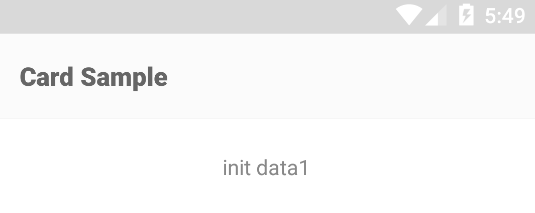
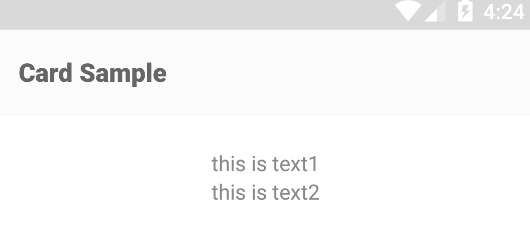
version 0.2.0

Changed region(s): [[0.0, 0.0, 1.0, 0.169], [0.0302, 0.2535, 0.3321, 0.4225], [0.3925, 0.6761, 0.6038, 0.8732]]

diff --git a/kratos/src/main/java/kratos/internal/KString.kt b/kratos/src/main/java/kratos/internal/KString.kt
@@ -21,6 +21,7 @@ class KString() {
     var views = emptySet<View>()
     var fn: ((view: View, new: String) -> Unit)? = null
     var update: Update? = null
+    var initData: String? = null
 
     public constructor(fn: (view: View, new: String) -> Unit) : this() {
         this.fn = fn
@@ -30,9 +31,9 @@ class KString() {
         this.update = update
     }
 
-    public var data: String by Delegates.observable("") {
+    private var data: String by Delegates.observable("") {
         d, old, new ->
-        if (old != new) {
+        if ((old != new)) {
             for (view in views) {
                 Log.d("KString", "VIEW UPDATE!: ${view.resources.getResourceName(view.id)} FROM $old TO $new")
                 if (fn != null)
@@ -63,6 +64,14 @@ class KString() {
                 })
             }
         }
+    }
+
+    fun get(): String {
+        return data
+    }
+
+    fun set(new: String) {
+        data = new
     }
 }
 

diff --git a/kratos/src/main/java/kratos/card/RenderExt.kt b/kratos/src/main/java/kratos/card/RenderExt.kt
@@ -11,6 +11,7 @@ import android.view.ViewGroup
 import android.widget.EditText
 import android.widget.RelativeLayout
 import android.widget.TextView
+import kratos.Kratos
 import kratos.R
 import kratos.card.entity.KData
 import kratos.card.render.*
@@ -149,7 +150,10 @@ fun Context.toTemplate(template: String): Template? {
                 var jsonString = jsonObject.toString()
                 jsonString = onCardRenderListener.onRender(jsonString)
                 var clazz = Class.forName(jsonObject.get("type").toString())
-                t.body.add(GsonUtils.getGson(this, clazz).fromJson<KCard<KData>>(jsonString, clazz))
+                val card = GsonUtils.getGson(this, clazz).fromJson<KCard<KData>>(jsonString, clazz)
+                t.body.add(card)
+                Kratos.bind(card)
+                card.onRender()
             }
         }
         if (`object`.has("footer")) {

diff --git a/kratos/src/main/java/kratos/card/KCard.kt b/kratos/src/main/java/kratos/card/KCard.kt
@@ -56,4 +56,6 @@ open class KCard<T : KData>(@Skip val context: Context) {
     protected fun onLink(position: Int) {
         EventBus.getDefault().post(KOnClickEvent(id, data, url, position))
     }
+
+    public open fun onRender() {}
 }

diff --git a/kratos-compiler/src/main/java/kratos/compiler/KratosProcessor.java b/kratos-compiler/src/main/java/kratos/compiler/KratosProcessor.java
@@ -31,8 +31,10 @@ import javax.lang.model.type.TypeVariable;
 import javax.lang.model.util.Elements;
 import javax.lang.model.util.Types;
 
+import kratos.Bind;
 import kratos.BindLayout;
 import kratos.BindText;
+import kratos.Binds;
 import kratos.LBindLayout;
 import kratos.LBindText;
 import kratos.PackageName;
@@ -59,6 +61,8 @@ public class KratosProcessor extends AbstractProcessor {
         types.add(LBindText.class.getCanonicalName());
         types.add(BindLayout.class.getCanonicalName());
         types.add(LBindLayout.class.getCanonicalName());
+        types.add(Binds.class.getCanonicalName());
+        types.add(Bind.class.getCanonicalName());
         return types;
     }
 
@@ -108,6 +112,24 @@ public class KratosProcessor extends AbstractProcessor {
             }
         }
 
+        for (Element element : env.getElementsAnnotatedWith(Binds.class)) {
+            if (!SuperficialValidation.validateElement(element)) continue;
+            try {
+                parseBinds(element, targetClassMap, erasedTargetNames);
+            } catch (Exception e) {
+                logParsingError(element, Binds.class, e);
+            }
+        }
+
+        for (Element element : env.getElementsAnnotatedWith(Bind.class)) {
+            if (!SuperficialValidation.validateElement(element)) continue;
+            try {
+                parseBind(element, targetClassMap, erasedTargetNames);
+            } catch (Exception e) {
+                logParsingError(element, Bind.class, e);
+            }
+        }
+
         for (Element element : env.getElementsAnnotatedWith(BindLayout.class)) {
             if (!SuperficialValidation.validateElement(element)) continue;
             try {
@@ -153,6 +175,25 @@ public class KratosProcessor extends AbstractProcessor {
         }
 
         return targetClassMap;
+    }
+
+    private void parseBinds(Element element, Map<TypeElement, BindingClass> targetClassMap,
+                            Set<String> erasedTargetNames) {
+        Bind[] binds = element.getAnnotation(Binds.class).value();
+        for (Bind bind : binds) {
+            String data = bind.data();
+            int id = bind.id();
+            BindingClass bindingClass = getOrCreateTargetClass(targetClassMap, (TypeElement) element, false, false);
+            bindingClass.addDoubleBinding(id, data);
+        }
+    }
+
+    private void parseBind(Element element, Map<TypeElement, BindingClass> targetClassMap,
+                           Set<String> erasedTargetNames) {
+        String data = element.getAnnotation(Bind.class).data();
+        int id = element.getAnnotation(Bind.class).id();
+        BindingClass bindingClass = getOrCreateTargetClass(targetClassMap, (TypeElement) element, false, false);
+        bindingClass.addDoubleBinding(id, data);
     }
 
     private void parsePackageName(Element element, Map<TypeElement, BindingClass> targetClassMap,

diff --git a/kratos-compiler/src/main/java/kratos/compiler/BindingClass.java b/kratos-compiler/src/main/java/kratos/compiler/BindingClass.java
@@ -92,8 +92,23 @@ public class BindingClass {
                 addKBindings(result, bindings);
             }
         }
+        if (!doubleBindingMap.isEmpty()) {
+            if (viewIdMap.isEmpty()) {
+                result.addStatement("$T view", ClassName.get("android.view", "View"));
+            }
+            for (Map.Entry<Integer, String> entry : doubleBindingMap.entrySet()) {
+                addDoubleBindings(result, entry);
+            }
+         }
         return result.build();
     }
+
+    private void addDoubleBindings(MethodSpec.Builder result, Map.Entry<Integer, String> entry) {
+        result.addStatement("view = finder.findRequiredView(target, $L)", entry.getKey());
+        result.addStatement("target.getData().$L.bind(view)", entry.getValue());
+        result.addStatement("target.getData().$L.set(target.getData().$L.getInitData())", entry.getValue(), entry.getValue());
+    }
+
     private void addKBindings(MethodSpec.Builder result, KBindings bindings) {
         List<KBinding> requiredViewBindings = bindings.getRequiredBindings();
         if (!isLibrary) {
@@ -153,5 +168,15 @@ public class BindingClass {
             viewIdMap.put(id, viewId);
         }
         return viewId;
+    }
+
+    private Map<Integer, String> doubleBindingMap = new LinkedHashMap<>();
+
+    public void addDoubleBinding(int id, String data) {
+        String mData = doubleBindingMap.get(id);
+        if (mData == null) {
+            mData = data;
+            doubleBindingMap.put(id, data);
+        }
     }
 }

diff --git a/kratos-sample/src/main/java/me/ele/kratos_sample/TextCard.java b/kratos-sample/src/main/java/me/ele/kratos_sample/TextCard.java
@@ -2,32 +2,25 @@ package me.ele.kratos_sample;
 
 import android.content.Context;
 
+import kratos.Bind;
 import kratos.BindLayout;
-import kratos.BindText;
-import kratos.Kratos;
+import kratos.Binds;
 import kratos.card.KCard;
-import kratos.card.utils.Skip;
-import kratos.internal.KString;
 import me.ele.kratos_sample.entity.KText;
 
 /**
  * Created by merlin on 15/12/17.
  */
 @BindLayout(R.layout.kcard_text)  //@LBindLayout("kcard_text")
+@Binds({@Bind(id = R.id.kcard_text_text1, data = "text1"),
+        @Bind(id = R.id.kcard_text_text2, data = "text2")})
 public class TextCard extends KCard<KText> {
-    @Skip
-    @BindText(R.id.kcard_text_text)  //@LBindText("kcard_text_text")
-    public KString _text = new KString();
-
     public TextCard(Context context) {
         super(context);
-        Kratos.bind(this);
-        setOnLinkListener();
     }
 
     @Override
-    public void refresh() {
-        if (getData() != null)
-            _text.setData(getData().text.getData());
+    public void onRender() {
+        setOnLinkListener();
     }
 }

diff --git a/kratos-sample/src/main/java/me/ele/kratos_sample/CardSampleActivity.java b/kratos-sample/src/main/java/me/ele/kratos_sample/CardSampleActivity.java
@@ -24,18 +24,6 @@ public class CardSampleActivity extends KCardActivity {
             case "textCard1":
                 showToast("Handle click on textCard1!");
                 break;
-            case "textCard2":
-                showToast("Handle click on textCard2!");
-                break;
-            case "textCard3":
-                showToast("Handle click on textCard3!");
-                break;
-            case "textCard4":
-                showToast("Handle click on textCard4!");
-                break;
-            case "textCard5":
-                showToast("Handle click on textCard5!");
-                break;
         }
     }
 }

diff --git a/kratos-annotation/src/main/java/kratos/Bind.java b/kratos-annotation/src/main/java/kratos/Bind.java
@@ -1,0 +1,18 @@
+package kratos;
+
+import android.support.annotation.IdRes;
+
+import java.lang.annotation.ElementType;
+import java.lang.annotation.Retention;
+import java.lang.annotation.RetentionPolicy;
+import java.lang.annotation.Target;
+
+/**
+ * Created by merlin on 15/12/22.
+ */
+@Retention(RetentionPolicy.CLASS)
+@Target(ElementType.TYPE)
+public @interface Bind {
+    String data();
+    @IdRes int id();
+}

diff --git a/kratos/src/main/java/kratos/internal/KStringDeserializer.java b/kratos/src/main/java/kratos/internal/KStringDeserializer.java
@@ -17,7 +17,7 @@ public class KStringDeserializer implements JsonDeserializer<KString> {
     @Override
     public KString deserialize(JsonElement json, Type typeOfT, JsonDeserializationContext context) throws JsonParseException {
         KString field = new KString();
-        field.setData(json.getAsString());
+        field.setInitData(json.getAsString());
         return field;
     }
 }

diff --git a/kratos-annotation/src/main/java/kratos/Binds.java b/kratos-annotation/src/main/java/kratos/Binds.java
@@ -1,0 +1,15 @@
+package kratos;
+
+import java.lang.annotation.ElementType;
+import java.lang.annotation.Retention;
+import java.lang.annotation.RetentionPolicy;
+import java.lang.annotation.Target;
+
+/**
+ * Created by merlin on 15/12/22.
+ */
+@Retention(RetentionPolicy.CLASS)
+@Target(ElementType.TYPE)
+public @interface Binds {
+    Bind[] value();
+}

diff --git a/kratos-sample/src/main/java/me/ele/kratos_sample/entity/KText.java b/kratos-sample/src/main/java/me/ele/kratos_sample/entity/KText.java
@@ -7,5 +7,6 @@ import kratos.internal.KString;
  * Created by merlin on 15/12/17.
  */
 public class KText extends KData {
-    public KString text;
+    public KString text1;
+    public KString text2;
 }

diff --git a/kratos-sample/src/main/java/me/ele/kratos_sample/SimpleActivity.java b/kratos-sample/src/main/java/me/ele/kratos_sample/SimpleActivity.java
@@ -6,7 +6,6 @@ import android.view.View;
 
 import kratos.BindText;
 import kratos.Kratos;
-import kratos.PackageName;
 import kratos.card.utils.ActivityUtils;
 import kratos.internal.KString;
 
